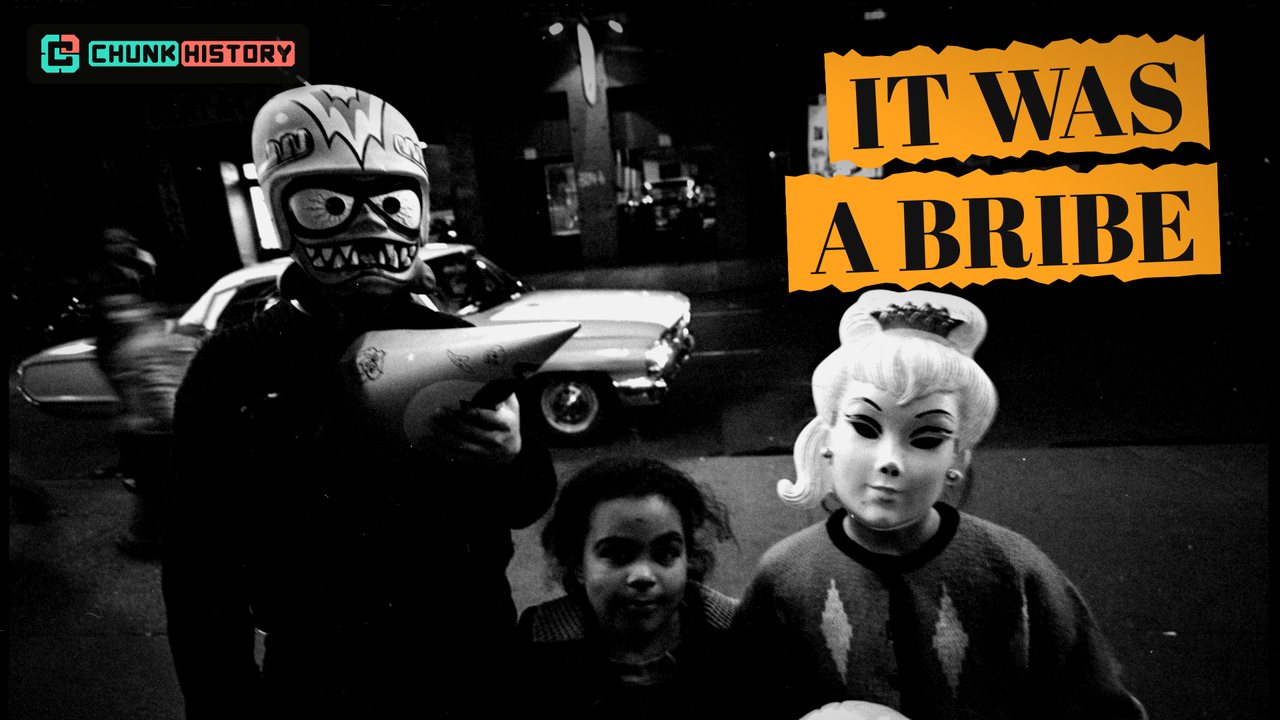
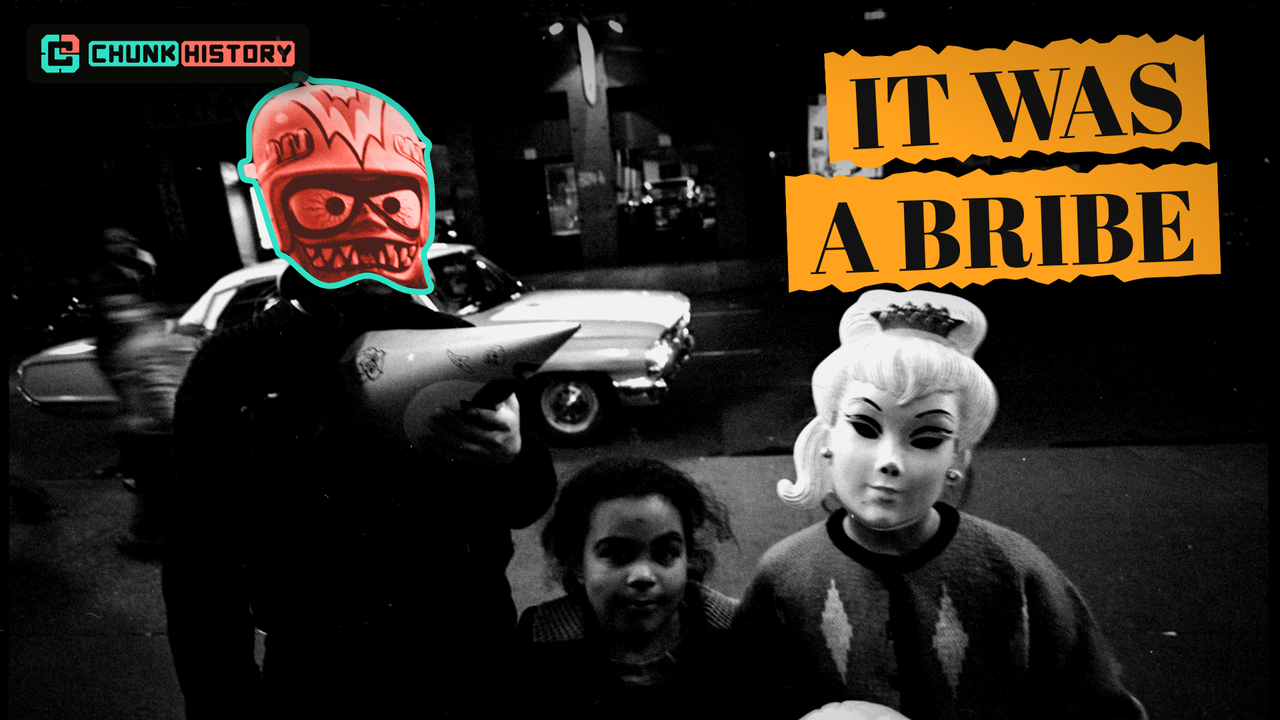
Halloween: competitor scan, feed mock-up, hybrid thumbnail G, kids mask
Claude-Session: https://claude.ai/code/session_017aRbDonm1FF42gZig9hAtV

Changed region(s): [[0.1875, 0.0917, 0.3438, 0.4278]]

diff --git a/projects/Halloween_Bribe/src/ThumbsHalloween.tsx b/projects/Halloween_Bribe/src/ThumbsHalloween.tsx
@@ -93,4 +93,44 @@ export const ThumbF: React.FC = () => {
   );
 };
 
-export const HALLOWEEN_THUMBS: Record<string, React.FC> = {C: ThumbC, C2: ThumbC2, D: ThumbD, E: ThumbE, F: ThumbF};
+
+
+/** G · hybrid: the real 1933 headline in two torn strips + the 1964 monster mask cut out in coral. No logo (unreadable in the feed). */
+const Strip: React.FC<{crop: [number, number, number, number]; x: number; y: number; w: number; rot: number}> = ({crop, x, y, w, rot}) => {
+  const [x0, y0, x1, y1] = crop;
+  const s = w / (x1 - x0);
+  return (
+    <div style={{position: 'absolute', left: x, top: y, width: w + 40, height: (y1 - y0) * s + 30, padding: '15px 20px', background: '#efe8da', transform: `rotate(${rot}deg)`, boxShadow: '0 18px 34px rgba(0,0,0,0.7)', overflow: 'hidden'}}>
+      <div style={{position: 'relative', width: w, height: (y1 - y0) * s, overflow: 'hidden'}}>
+        <Picture src="img/ch03/bismarck_tribune_1933-11-01_tear_gas_headline.jpg" place={{left: -x0 * s, top: -y0 * s, scale: s}} size={[2600, 607]} bw="grayscale(1) contrast(1.4) sepia(0.15)" />
+      </div>
+    </div>
+  );
+};
+
+export const ThumbG: React.FC = () => {
+  const size: [number, number] = [3000, 2028];
+  const m = MASKS.kids;
+  const sc = 1.45;
+  const place = {left: 1240 - 569 * sc, top: 170 - 178 * sc, scale: sc};
+  const cutStyle = {WebkitMaskImage: `url(${staticFile(m.alpha)})`, WebkitMaskSize: '100% 100%', maskImage: `url(${staticFile(m.alpha)})`, maskSize: '100% 100%'} as React.CSSProperties;
+  return (
+    <PaletteCtx.Provider value={PALETTES.locked}>
+      <AbsoluteFill style={{background: '#000', overflow: 'hidden'}}>
+        <DarkPaper />
+        <Strip crop={[50, 228, 1195, 392]} x={60} y={170} w={1120} rot={-3} />
+        <Strip crop={[1215, 228, 2405, 392]} x={140} y={420} w={1050} rot={-1.5} />
+        <Loop cx={420} cy={265} rx={360} ry={120} at={0} seed={91} color={CORAL} width={14} tilt={-3} />
+        <div style={{position: 'absolute', left: place.left, top: place.top, width: size[0] * sc, height: size[1] * sc, ...cutStyle, filter: 'drop-shadow(0 20px 30px rgba(0,0,0,0.6))'}}>
+          <Picture src="img/ch05/kids_halloween_masks_nywts_1964.jpg" place={{left: 0, top: 0, scale: sc}} size={size} bw="grayscale(1) contrast(1.3)" />
+        </div>
+        <Tint mask={m.alpha} place={place} size={size} />
+        <Traced paths={m.data.shapes.subject} place={place} at={0} dur={1} width={10} />
+        <Highlight text="ON HALLOWEEN?" x={110} y={760} size={150} at={0} seed={92} rot={-2} />
+        <Finish vignette={0.35} />
+      </AbsoluteFill>
+    </PaletteCtx.Provider>
+  );
+};
+
+export const HALLOWEEN_THUMBS: Record<string, React.FC> = {C: ThumbC, C2: ThumbC2, D: ThumbD, E: ThumbE, F: ThumbF, G: ThumbG};

diff --git a/projects/Halloween_Bribe/src/masks.ts b/projects/Halloween_Bribe/src/masks.ts
@@ -2,7 +2,9 @@
 // import it here and add a line to MASKS. The demo portrait's mask ships with the template.
 import {maskRef} from './kit/maskref';
 import sully from '../public/img/masks/sully.json';
+import kids from '../public/img/masks/kids.json';
 
 export const MASKS = {
   sully: maskRef('sully', sully),
+  kids: maskRef('kids', kids),
 };

diff --git a/projects/Halloween_Bribe/tools/feed_mock.py b/projects/Halloween_Bribe/tools/feed_mock.py
@@ -1,0 +1,25 @@
+import re, sys
+from PIL import Image, ImageDraw, ImageFont
+rows=[l for l in open('research/THUMBNAIL_RESEARCH.md') if re.match(r'\| \d+ \|',l)]
+comp=[]
+for l in rows:
+    c=[x.strip() for x in l.replace('\\|','/').split('|')]
+    comp.append((f'research/competitors/{c[6]}.jpg', c[2].replace('\\',''), f'{c[3]} · {c[4]} views'))
+ours={'C':'Trick-or-Treating Was a Bribe','G':'Why Halloween Used to Be a Crime Spree','E':'Trick-or-Treating Was a Bribe','F':'The Real History of Trick-or-Treating'}
+items=list(comp)
+for i,k in zip([1,6,9,14],'CGEF'):
+    items.insert(i,(f'renders/thumbnails/Halloween_Bribe_{k}.png',f'[{k}] '+ours[k],'Chunk History · new'))
+F='/usr/share/fonts/truetype/dejavu/DejaVuSans.ttf'
+fb=ImageFont.truetype(F.replace('Sans','Sans-Bold'),15); fs=ImageFont.truetype(F,13)
+def feed(dark,out):
+    W,H,cols=320,180,4
+    bg,fg,sub=((15,15,15),(241,241,241),(170,170,170)) if dark else ((255,255,255),(15,15,15),(96,96,96))
+    img=Image.new('RGB',(cols*(W+16)+16,5*(H+64)+16),bg); d=ImageDraw.Draw(img)
+    for n,(p,t,s) in enumerate(items):
+        x=16+(n%cols)*(W+16); y=16+(n//cols)*(H+64)
+        im=Image.open(p).convert('RGB'); r=im.width/im.height
+        if r<1.7: h=int(im.width/1.7778); im=im.crop((0,(im.height-h)//2,im.width,(im.height-h)//2+h))
+        img.paste(im.resize((W,H)),(x,y))
+        d.text((x,y+H+6),t[:40],font=fb,fill=fg); d.text((x,y+H+26),s,font=fs,fill=sub)
+    img.save(out,quality=88)
+feed(True,'review/feed_dark.jpg'); feed(False,'review/feed_light.jpg')

diff --git a/projects/Halloween_Bribe/tools/mask.py b/projects/Halloween_Bribe/tools/mask.py
@@ -26,6 +26,7 @@ JOBS = {
     # delete its layers so Parallax falls back to a flat camera move (Dressed to Kill: library, Matilda, workshop).
     # Crop to one figure when the picture has several people; the largest piece of the cut-out is kept.
     "sully": ("img/demo/sully_jackson_1845.jpg", None, "isnet-general-use"),
+    "kids": ("img/ch05/kids_halloween_masks_nywts_1964.jpg", (560, 0, 1400, 1500), "isnet-general-use"),
     # "clay": ("img/clay_jouett.jpg", None, "isnet-general-use"),
     # "voters_a": ("img/gen/ch05_new_voters.png", (80, 120, 420, 850), "isnet-general-use"),
 }

diff --git a/projects/Halloween_Bribe/research/THUMBNAIL_RESEARCH.md b/projects/Halloween_Bribe/research/THUMBNAIL_RESEARCH.md
@@ -1,0 +1,37 @@
+# Thumbnail / Title Competitor Scan: History of Halloween & Trick-or-Treating
+
+Scanned 2026-10-27 from YouTube search results ("history of halloween", "history of trick or treating", "why do we trick or treat", "halloween used to be dangerous pranks"). View counts are from the search pages that day. Kids' songs and prank compilations were left out because they don't compete for this topic. Thumbnails are saved in `competitors/<ID>.jpg` (480x360 hqdefault; all are valid JPEGs).
+
+## Competitors (by views)
+
+| # | Title | Channel | Views | Year | ID | Thumbnail |
+|---|---|---|---|---|---|---|
+| 1 | Halloween History | National Geographic | 3.2M | ~2007 | R-VRAemIvbI | Black-and-white medieval engraving of robed figures (a church/court scene), NatGeo yellow frame, no text |
+| 2 | History of Halloween - Documentary | Fire of Learning | 2.8M | ~2019 | Iro229V4Wss | Orange vintage-postcard art (smiling moon, witch silhouette, bats), large white italic serif "History of Halloween" |
+| 3 | Bet You Didn't Know: Halloween | HISTORY | 1.5M | ~2014 | dHQZErtwA3E | Close-up of a carved pumpkin with dripping yellow letters "BET YOU DIDN'T KNOW", HISTORY logo |
+| 4 | The History Of Halloween | BuzzFeed Unsolved Network | 1.4M | ~2020 | UyOqOa440l4 | Sepia engraving of revelers inside a white pentagram, "Haunting History" logo |
+| 5 | The History of Halloween! | Mr. DeMaio | 858K | ~2018 | W4uI3iMZyWc | Two jack-o'-lanterns on hay bales, string lights, night sky, green and orange "THE HISTORY OF Halloween" |
+| 6 | Why Do We Go Trick-or-Treating? | Colossal Cranium (DreamWorksTV) | 627K | ~2018 | E-5_LkSyK6w | Cartoon of a mummy, witch and pumpkin at a doorway, red background, white "WHY DO WE GO TRICK-OR-TREATING?" |
+| 7 | History of Halloween - Animation | History on Maps | 513K | ~2019 | uyxadwwT2lE | Flat cartoon kids in mummy and werewolf costumes, full moon, pumpkin buckets, no text |
+| 8 | Trick or Treating's Tricky History | HISTORY | 379K | 2025 | ncEqXw41xLU | Desaturated vintage photo of masked 1930s-era kids in front of a burning house, HISTORY logo, no text. **This is the closest to our angle.** |
+| 9 | Best of: Halloween | The History Guy | 257K | 2025 | OOfXbAldt2E | Host's face, red sunset, haunted-house silhouette, "THE BEST OF HALLOWEEN" |
+| 10 | From Harvest to Haunting: How Samhain Became Halloween | Holiday History | 210K | 2025 | gdyuqhGRvAM | Sepia/orange pencil illustration of a druid and bonfire, serif "Before Halloween there was Samhain" |
+| 11 | The History of Halloween \| Samhain | Lady of the Library | 200K | ~2023 | hEjGRnXQbFg | Host's face, bonfire with a dancing woman, glowing white serif "Samhain" |
+| 12 | The ENTIRE History of Halloween | Fading Lore | 124K | 2026 | GS0QQ1KG_JQ | AI-painted lineup of a deer-skull druid, hooded figures and a ghost with a pumpkin, dripping red "The ENTIRE History of HALLOWEEN", "A DEEP DIVE" |
+| 13 | The Real History of Halloween | Let's Talk Religion | 101K | ~2024 | e1PeB-vpLm8 | Glowing jack-o'-lantern on black, small gold serif "What is Halloween?" |
+| 14 | Halloween's Weird, Lost Traditions Might Surprise You | The Resurrectionists | 57K | 2025 | 7SE8kdepU6c | AI shocked child in a witch hat next to a skeleton in a mirror (engraving), "STRANGE ORIGINS" |
+| 15 | The Most Disturbing Halloween Pranks That Went Horribly Wrong | Crunchy History | 28K | 2026 | GxI3UBEvOKA | Grid of 8 AI panels (chainsaw, egging, noose, fire), each with a caption ("PRANK GOT REAL", "CAUGHT FIRE") |
+| 16 | The Dark Roots of Halloween: You Won't Believe How It Started | The History Archive | 19K | 2026 | NTowVnE6QRY | AI torchlit villagers with a straw-horse mask, white and orange "HOW HALLOWEEN BEGAN" |
+
+## Saturated look
+- **Orange and black with a jack-o'-lantern.** Pumpkins appear in 7 of the 16 thumbnails. Orange sunsets, bonfires and full moons appear in most of the rest.
+- **Samhain, druids and bonfires** for the "origins" angle: four or more recent videos (AI paintings, pencil sketches, real fire photos).
+- **Dripping horror lettering** (yellow or red) and **cream or white serif "History of Halloween"** text.
+- **AI-painted spooky folk figures** (straw masks, deer skulls, hooded ghosts), which has become common since 2025.
+- **Title phrases that repeat:** "The History of Halloween", "The (ENTIRE/Real) History of Halloween", "Origins of Halloween", "How Samhain Became Halloween", "Dark Roots", "Strange/Weird Origins", "Bet You Didn't Know", "Why Do We Trick-or-Treat?".
+
+## Gaps we can own
+1. **Nobody uses the bribe or protection-money idea.** No title or thumbnail suggests that treats were a payoff to stop vandalism. Something like "Trick-or-Treating Was a Bribe" or "Candy Was Protection Money" doesn't exist yet.
+2. **The 20th-century American story has little coverage.** Almost everything covers Celtic and medieval history. Only HISTORY's 1-minute short (8) shows 1930s vandalism, and only Crunchy History (15) covers pranks, as an AI grid of modern-looking scenes. The 1933 Bismarck tear gas, WWII sugar rationing and the 1974 Pasadena poisoning (Ronald Clark O'Bryan) don't appear in any top thumbnail or title.
+3. **Visual contrast:** our field-notebook paper look with coral and teal (no orange-and-black, no pumpkin) would stand out on a results page that's almost all orange. Good subjects: a real 1930s newspaper clipping, a gas-mask or police image, or a candy bar paired with a broken window or overturned outhouse. Short text in a different color from the rest of the field ("A BRIBE.", "1933: TEAR GAS").
+4. **A real-archival-photo look works.** HISTORY's burning-house vintage photo is the strongest image in the set. A real, cited period photo stands apart from the AI-painted wave.

diff --git a/projects/Halloween_Bribe/research/THUMBNAIL_GAPS.md b/projects/Halloween_Bribe/research/THUMBNAIL_GAPS.md
@@ -24,3 +24,13 @@ Source quality is mixed: YouTube's own pages are solid; most "CTR lift" numbers 
 6. **Test set should differ in style:** e.g. F (B&W photo, faces) vs E (real headline) vs C or D (silhouette painting). Drop C2 (a word swap).
 7. **Logo.** The top-left logo uses about 6% of the frame. Most large channels skip it, since the channel name shows under the video. Worth one test; the channel rule keeps it for now.
 8. **After Halloween:** plan a November thumbnail and title that drop the seasonal hook, then a September refresh (Paddy: updating an old video's thumbnail can revive it).
+
+## Feed mock-up results (`review/feed_dark.jpg`, `review/feed_light.jpg`; `python3 tools/feed_mock.py`)
+
+- C and D (orange silhouette paintings) disappear among Fire of Learning, Mr. DeMaio and The History Guy.
+- E and F stand out: the only B&W and newsprint thumbnails in the grid.
+- F looks a lot like HISTORY's "Trick or Treating's Tricky History" (masked vintage kids), the one competitor on our angle.
+- The Chunk History logo is unreadable at feed size.
+- **G (headline in two strips + coral 1964 monster mask, no logo) is the clear standout**: the largest readable text in the grid and the only coral.
+- Watch out: a channel called "Crunchy History" posts Halloween prank videos (its name is close to Chunk History).
+- Honesty note for G: the mask is from 1964 and the headline from 1933. The mask stands in for "Halloween"; the video must not imply that kid was gassed.
